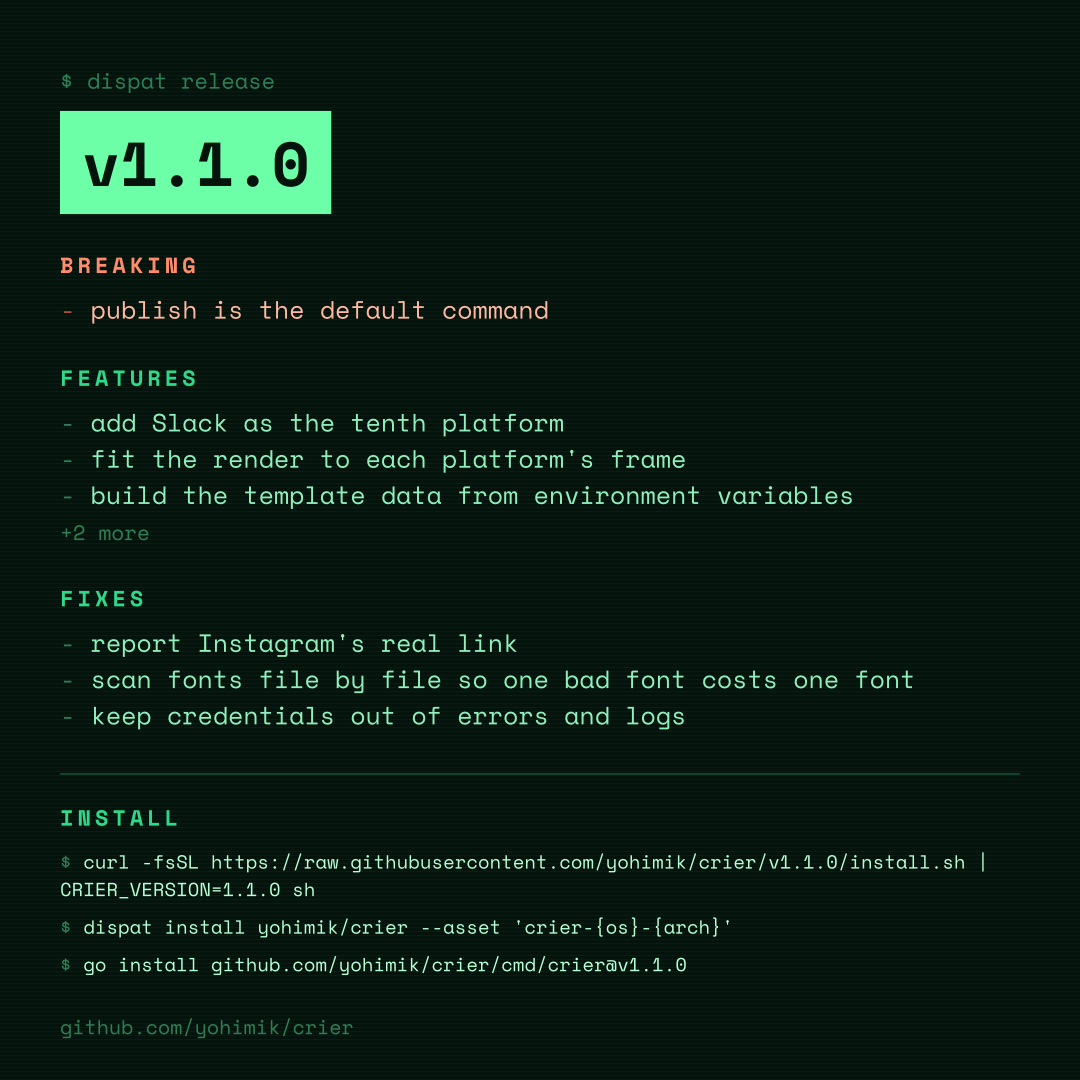
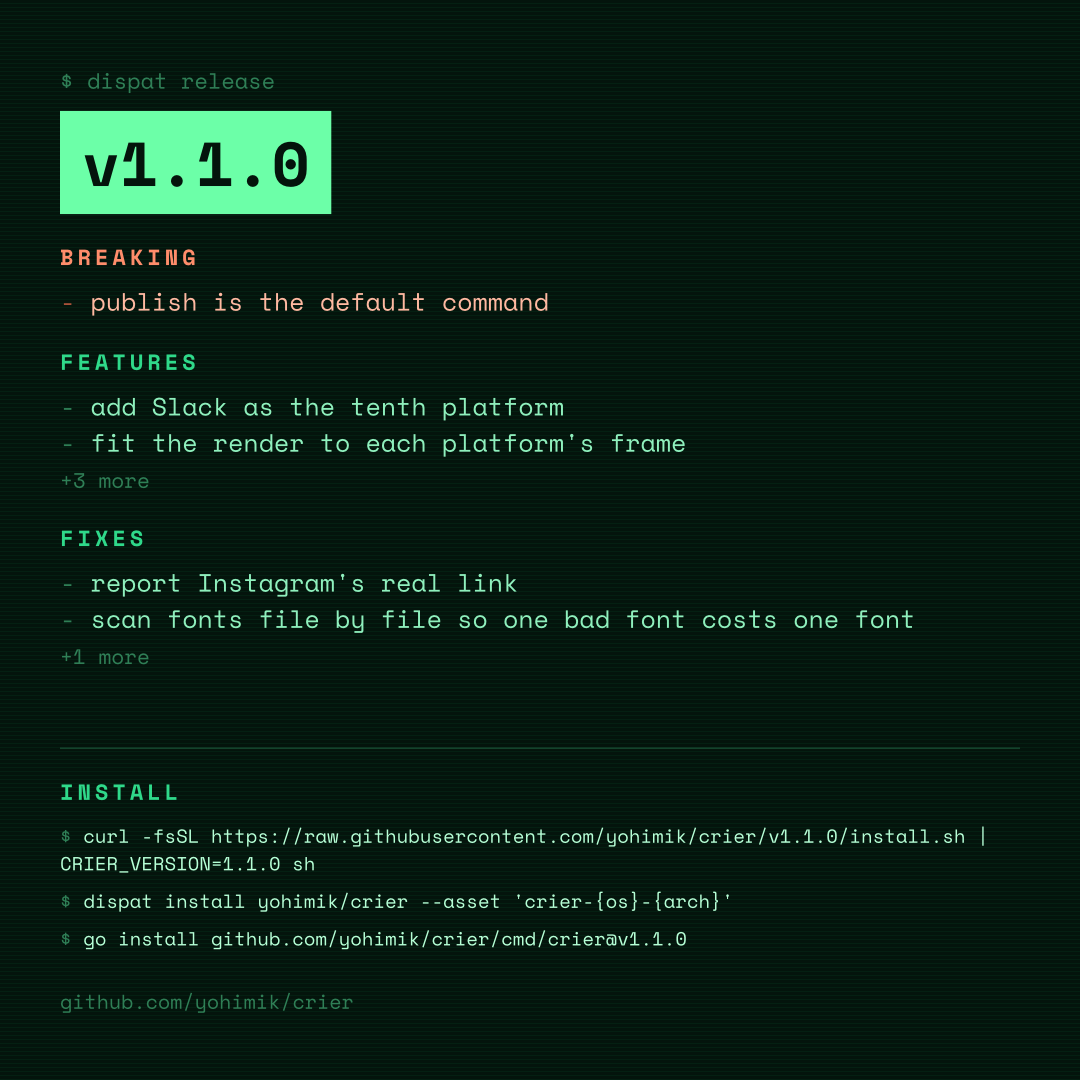
fix(crier): pin the install block to the release card's bottom edge
A short changelist left it floating mid-card and a long one pushed it
against the edge. Absolutely positioned rather than flexed, because the
layout engine's flexbox is the weaker of the two — and the changes above
now spend a section-count-aware budget, two entries each when all three
sections are present, so they can never grow down into it.

diff --git a/announce/template.html b/announce/template.html
@@ -12,6 +12,12 @@
   body { font-family: "Space Mono", monospace }
 
   .card {
+    /* position: relative so the install block can pin itself to the bottom
+       edge: a short changelist would otherwise leave it floating mid-card,
+       and a long one would push it against the edge. Absolute positioning
+       rather than a flex column because the layout engine's flexbox is the
+       weaker of the two. */
+    position: relative;
     width: 100%; height: 100%; box-sizing: border-box;
     background:
       repeating-linear-gradient(0deg,
@@ -32,7 +38,7 @@
     padding: 6px 22px;
   }
 
-  .section { margin-top: 34px }
+  .section { margin-top: 26px }
   .section h2 {
     font-size: 22px; font-weight: 700; margin: 0 0 10px 0;
     letter-spacing: 4px; color: #2fd98a;
@@ -52,7 +58,13 @@
   .breaking li { color: #ffb9a1 }
   .breaking li:before { color: #a85138 }
 
-  .install { margin-top: 40px; border-top: 2px solid #14432c; padding-top: 26px }
+  /* Pinned to the bottom of the card, changelist long or short. The changes
+     above are truncated to three lines a section, so they can never grow
+     down into this. */
+  .install {
+    position: absolute; left: 60px; right: 60px; bottom: 118px;
+    border-top: 2px solid #14432c; padding-top: 26px;
+  }
   .install h2 {
     font-size: 22px; font-weight: 700; margin: 0 0 14px 0;
     letter-spacing: 4px; color: #2fd98a;
@@ -69,7 +81,10 @@
   .install .cmd + .cmd { margin-top: 2px }
   .install .cmd span { color: #2f7f56 }
 
-  .footer { margin-top: 34px; font-size: 20px; color: #2f7f56 }
+  .footer {
+    position: absolute; left: 60px; bottom: 64px;
+    font-size: 20px; color: #2f7f56;
+  }
 </style>
 </head>
 <body>

diff --git a/test/e2e/announce_test.go b/test/e2e/announce_test.go
@@ -102,19 +102,51 @@ func TestAnnounceNotesBuildsTheCardsData(t *testing.T) {
 		}
 	}
 
+	// All three sections are present, so the card's vertical budget drops
+	// each to two entries: the install block is pinned to the bottom edge,
+	// and three sections of three would spill into it.
 	features := doc.Sections[1]
-	if len(features.Items) != 3 {
-		t.Errorf("features shows %d items, want the first three", len(features.Items))
+	if len(features.Items) != 2 {
+		t.Errorf("features shows %d items, want two when all three sections are present", len(features.Items))
 	}
-	if features.Items[0] != "add streaming" || features.Items[2] != "add caching" {
+	if features.Items[0] != "add streaming" || features.Items[1] != "add retries" {
 		t.Errorf("features = %v, want them in history order", features.Items)
 	}
-	if features.More != 2 {
-		t.Errorf("more = %d, want the two that did not fit", features.More)
+	if features.More != 3 {
+		t.Errorf("more = %d, want the three that did not fit", features.More)
 	}
 	// A section that fits entirely says nothing is left.
 	if doc.Sections[2].More != 0 {
 		t.Errorf("fixes.more = %d", doc.Sections[2].More)
+	}
+}
+
+// TestAnnounceNotesKeepsTheFullAllowanceForFewerSections: the budget rule is
+// section-count-aware — with two sections or fewer, three entries each fit
+// above the pinned install block.
+func TestAnnounceNotesKeepsTheFullAllowanceForFewerSections(t *testing.T) {
+	requireSh(t)
+
+	out, stderr, code := runScript(t, "notes.sh", []string{
+		"DISPAT_NEW_VERSION=1.2.3",
+		"DISPAT_FEATURES=add streaming\nadd retries\nadd caching\nadd metrics",
+		"DISPAT_FIXES=close a leak",
+	})
+	if code != 0 {
+		t.Fatalf("code=%d stderr=%s", code, stderr)
+	}
+	var doc notesDoc
+	if err := json.Unmarshal([]byte(out), &doc); err != nil {
+		t.Fatalf("not JSON: %v\n%s", err, out)
+	}
+	if len(doc.Sections) != 2 {
+		t.Fatalf("sections = %+v, want features and fixes", doc.Sections)
+	}
+	if got := len(doc.Sections[0].Items); got != 3 {
+		t.Errorf("features shows %d items, want the full three with only two sections", got)
+	}
+	if doc.Sections[0].More != 1 {
+		t.Errorf("more = %d, want the one that did not fit", doc.Sections[0].More)
 	}
 }
 
